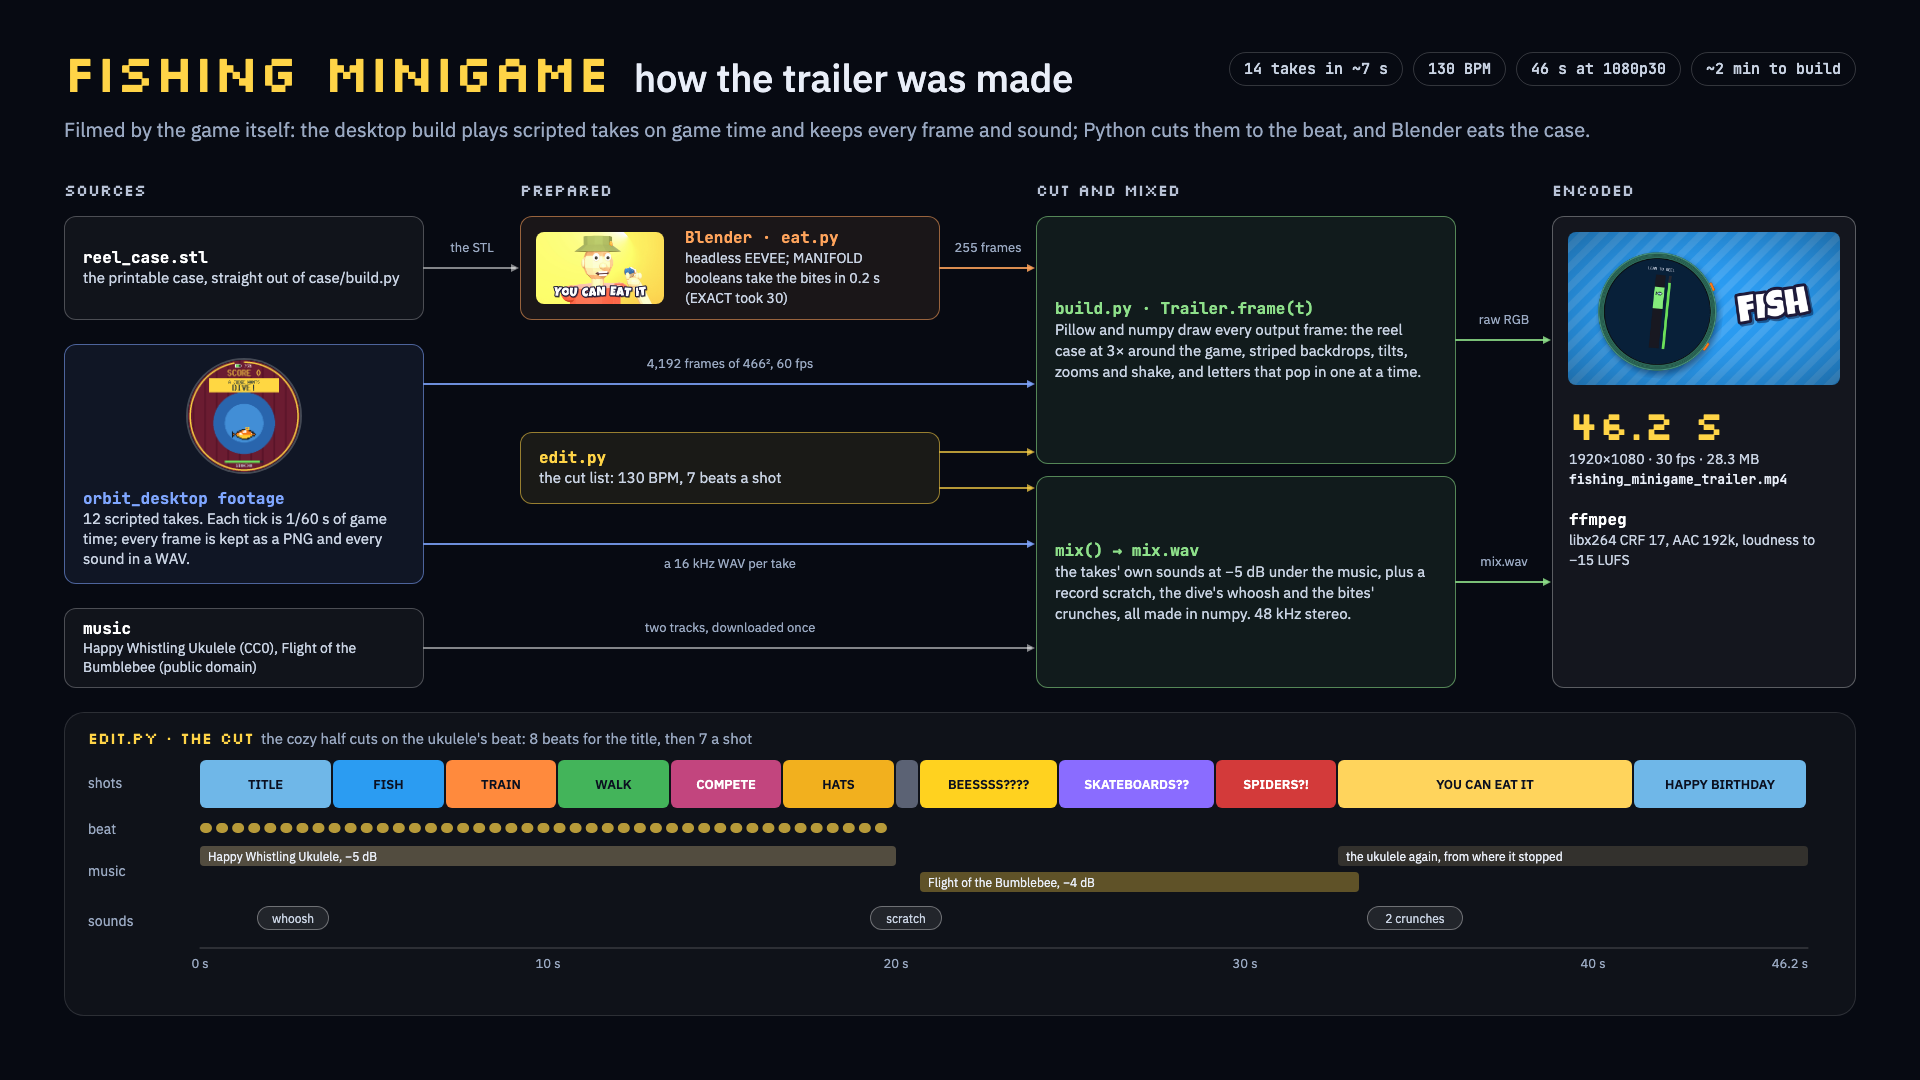
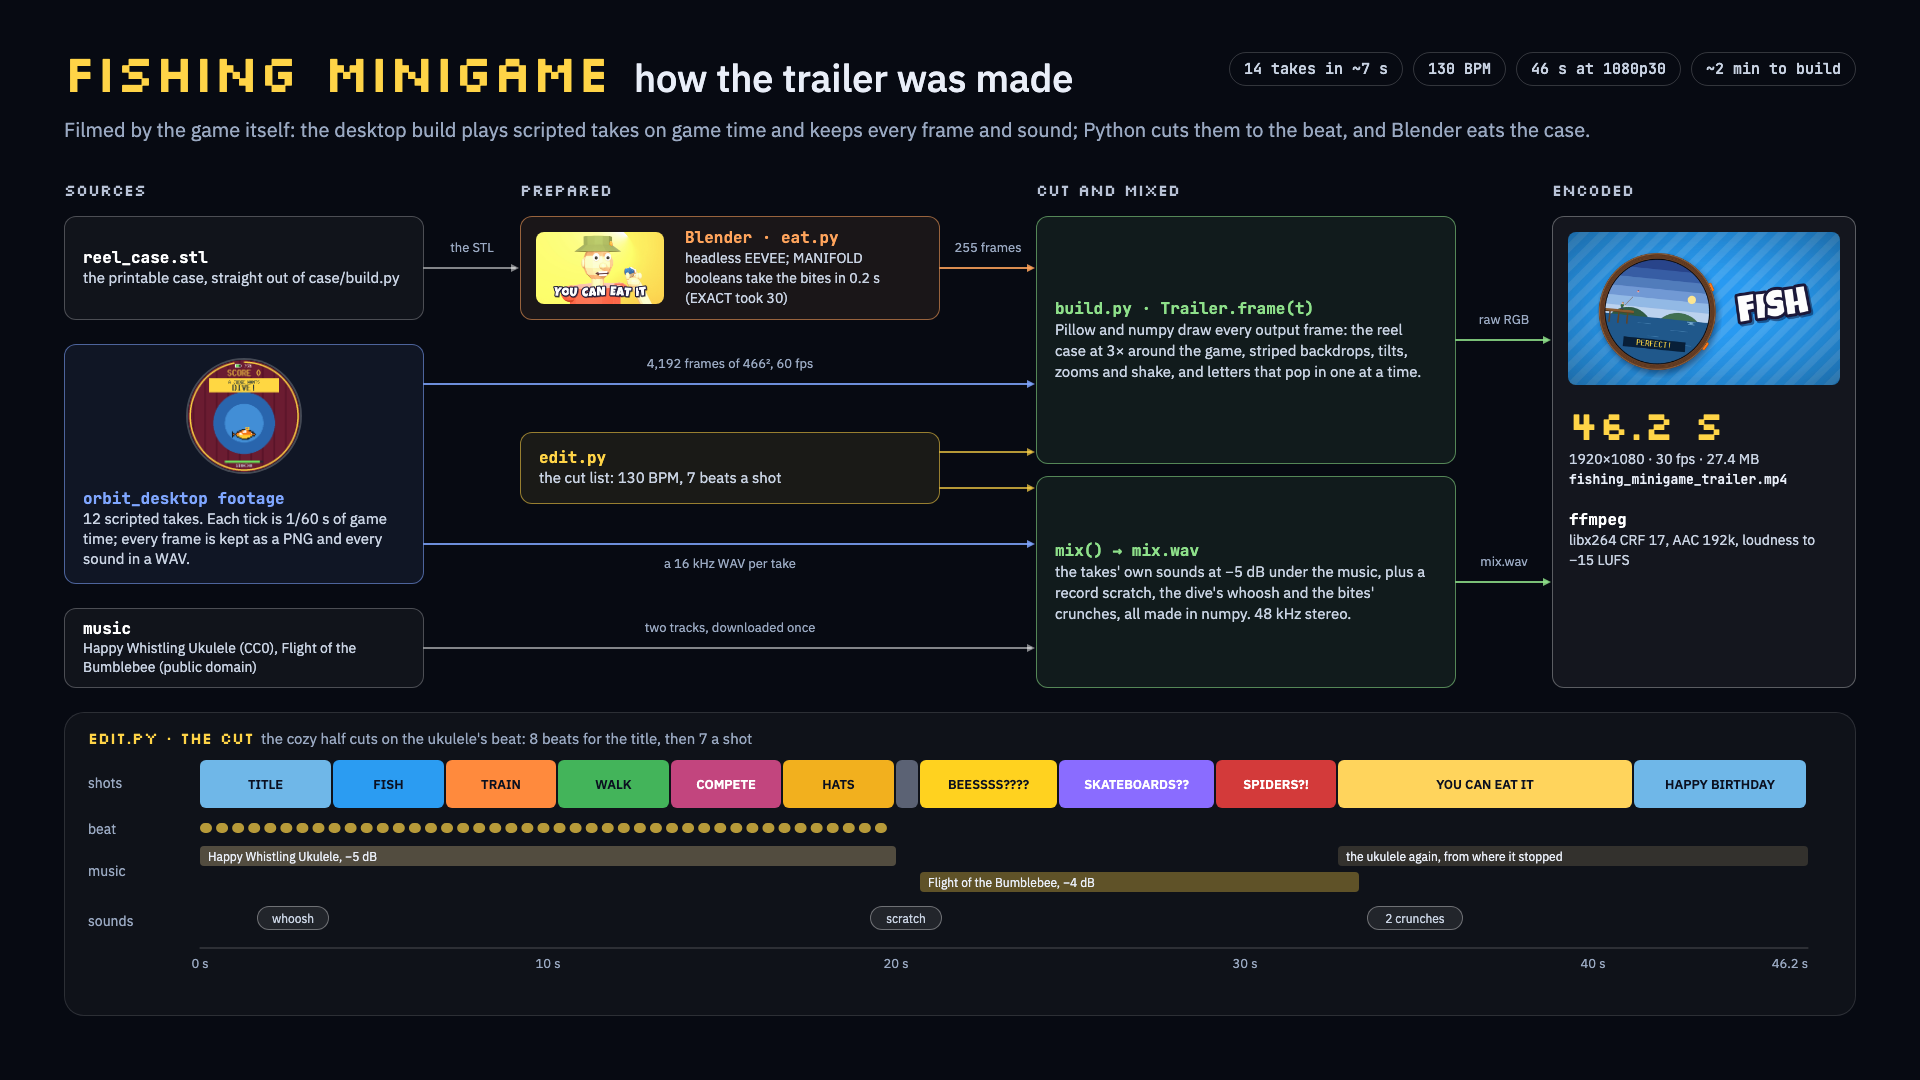
trailer: a brown rim round every shot. The Device drawn round the game is the front flange's brown (#6b4226, as printed) instead of teal-green; the trailer slide shows the new frame and size (27.4 MB), and the canvas follows; devlog beat 67

Changed region(s): [[0.8125, 0.2139, 0.9062, 0.3667]]

diff --git a/docs/architecture/build.py b/docs/architecture/build.py
@@ -830,7 +830,7 @@ def trailer():
         472,
         span(
             span("46.2 s", font_family=PIXEL, font_size="40px", line_height="48px", color=rgb(YELLOW))
-            + "<br>1920×1080 · 30 fps · 28.3 MB<br>"
+            + "<br>1920×1080 · 30 fps · 27.4 MB<br>"
             + span("fishing_minigame_trailer.mp4", font_family=MONO, font_size="13px", color=INK)
             + "<br><br>"
             + mono("ffmpeg", WHITE, 16)
@@ -845,7 +845,7 @@ def trailer():
         font_size="14px",
         color=SOFT,
     )
-    b.image(1568, 232, 272, 153, "devlog/img/37-trailer-fish.png", "a frame of the trailer", object_fit="cover", border_radius="8px")
+    b.image(1568, 232, 272, 153, "devlog/img/67-after-brown-rim.png", "a frame of the trailer", object_fit="cover", border_radius="8px")
 
     b.arrow(424, 268, 519, 268, WHITE, alpha=0.5)
     b.text(432, 240, "the STL", size=13, color=MUTED, line=16, width="80px", text_align="center")

diff --git a/trailer/build.py b/trailer/build.py
@@ -460,11 +460,11 @@ def place_blurred(canvas, sprite, pivot, at, scale, angle_deg, blur, copies=9):
 
 
 class Device:
-    """The board in its reel case, seen from the front: the game's screen inside the green rim,
-    with the orange PWR and BOOT caps. Built at K times the panel's resolution."""
+    """The board in its reel case, seen from the front: the game's screen inside the brown front
+    flange, with the orange PWR and BOOT caps. Built at K times the panel's resolution."""
 
     K = 3
-    CASE, CASE_LIGHT, CASE_DARK = "#2e6b5a", "#4f9a83", "#173b31"
+    CASE, CASE_LIGHT, CASE_DARK = "#6b4226", "#94653f", "#45291a"
 
     def __init__(self):
         k = self.K

diff --git a/devlog/beats.md b/devlog/beats.md
@@ -1317,3 +1317,15 @@ Images are in `img/`. Newest beats go at the bottom.
   - The case slide was re-rendered, and the canvas and the website's 2x copy follow.
 - **Media:** `img/66-before-case-slide.png`, `img/66-after-case-slide.png`,
   `img/66-before-button-side.png`, `img/66-after-button-side.png`.
+
+## 67. A wooden rim for every shot (2026-10-12)
+
+- **The ask:** "in every screnshot it has the green outline in the trailer, those should all be
+  brown too"
+- **The fix:** the trailer draws the reel case around every game shot itself (`Device` in
+  `trailer/build.py`), from the front, where all you see is the front flange. It was teal-green
+  from before the print had colours. It's now the flange's brown (`#6b4226`, the same as the
+  eaten case and the case renders), with a lighter brown highlight and darker brown grooves.
+- **The numbers:** the trailer stayed 46.2 s; the MP4 went from 28.3 to 27.4 MB. The trailer
+  slide, the canvas and the website's copy show the new frame.
+- **Media:** `img/67-before-green-rim.png`, `img/67-after-brown-rim.png`.
